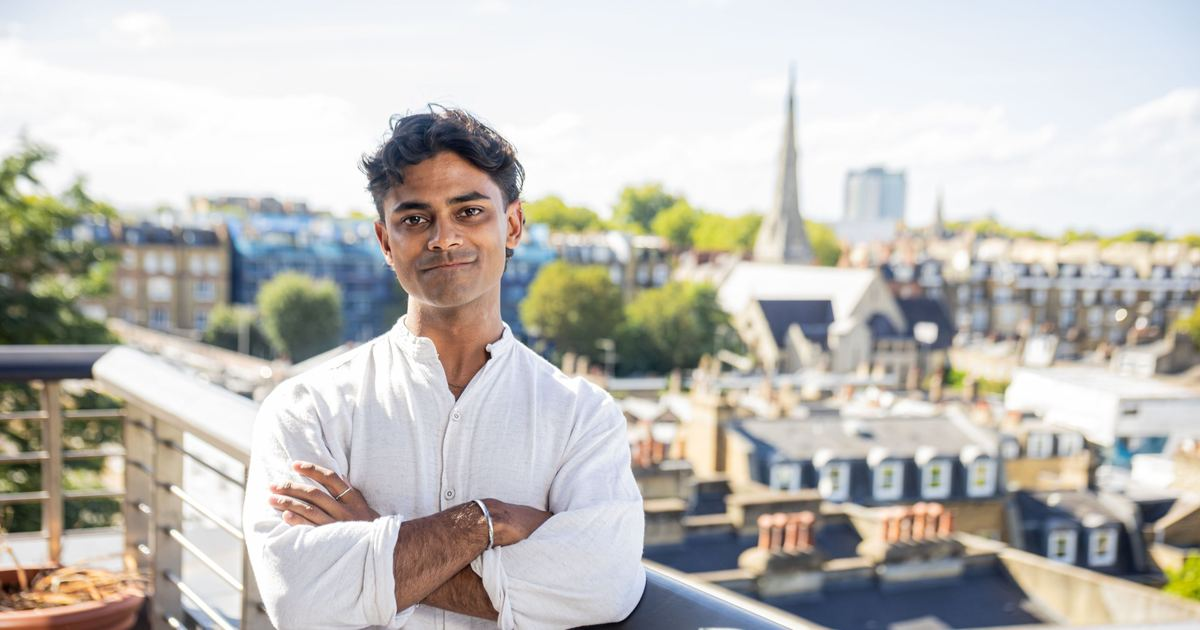
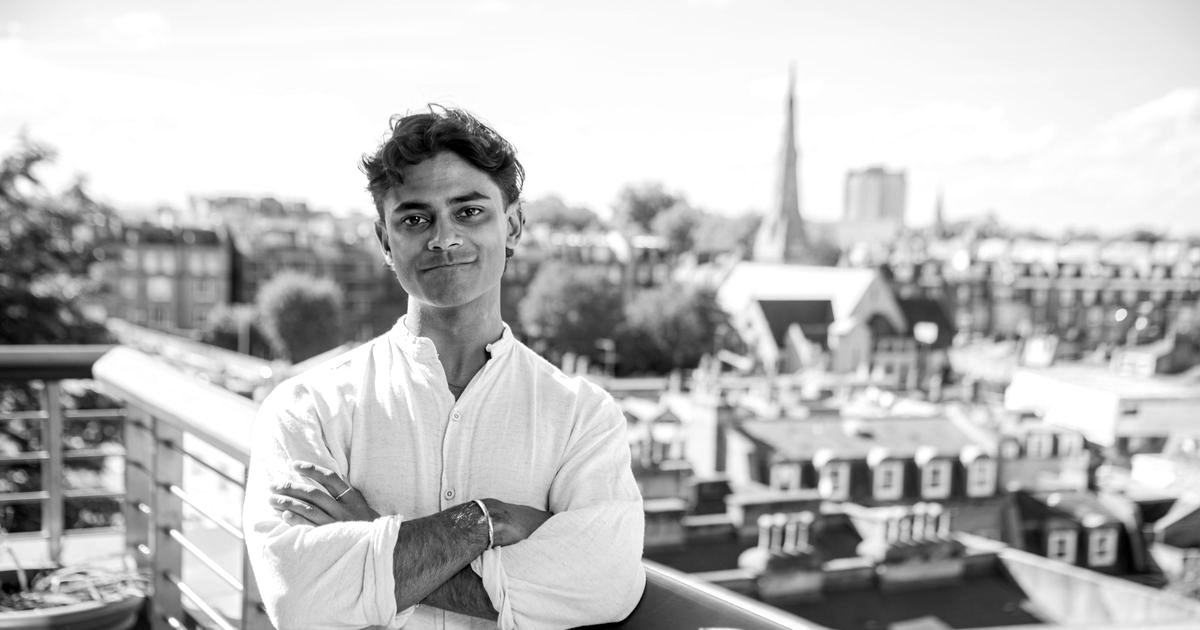
Smaller black-and-white photo, add email contact buttons
Claude-Session: https://claude.ai/code/session_011BaTcGgiFKwZt6SdmjK1kX

diff --git a/index.html b/index.html
@@ -40,6 +40,10 @@ nav .brand:hover{text-decoration:none}
 nav ul{list-style:none;display:flex;gap:26px;margin:0;padding:0;font-size:13px}
 nav ul a{color:var(--body);opacity:.85}
 nav ul a:hover{opacity:1;text-decoration:none;color:var(--ink)}
+nav ul{align-items:center}
+nav ul a,nav .brand{white-space:nowrap}
+nav ul a.pill{opacity:1;color:#fff;background:var(--purple);padding:6px 14px;border-radius:980px;font-weight:500}
+nav ul a.pill:hover{color:#fff;background:#3a2673}
 
 /* hero */
 .hero{min-height:92vh;display:flex;flex-direction:column;justify-content:center;align-items:center;text-align:center;padding:120px 24px 40px}
@@ -56,14 +60,14 @@ nav ul a:hover{opacity:1;text-decoration:none;color:var(--ink)}
 @keyframes in{to{opacity:1;transform:none}}
 
 /* scaling photo */
-.photo-track{height:190vh;position:relative}
+.photo-track{height:150vh;position:relative}
 .photo-stick{position:sticky;top:0;height:100vh;display:flex;align-items:center;justify-content:center;overflow:hidden}
-.photo-frame{position:relative;width:100%;height:100%;
-  transform:scale(var(--s,.62));border-radius:var(--r,28px);overflow:hidden;will-change:transform}
+.photo-frame{position:relative;width:min(1040px,88vw);height:min(66vh,620px);
+  transform:scale(var(--s,.8));border-radius:var(--r,32px);overflow:hidden;will-change:transform;box-shadow:0 30px 80px rgba(8,9,13,.12)}
 .photo-frame img{width:100%;height:100%;object-fit:cover;object-position:35% 40%}
-.photo-cap{position:absolute;left:0;right:0;bottom:0;padding:48px 6vw;color:#fff;
+.photo-cap{position:absolute;left:0;right:0;bottom:0;padding:40px 44px;color:#fff;
   background:linear-gradient(to top,rgba(8,9,13,.6),rgba(8,9,13,0));opacity:var(--c,0)}
-.photo-cap .n{font:600 clamp(34px,5vw,64px)/1 var(--display);letter-spacing:-.02em;margin:0 0 10px}
+.photo-cap .n{font:600 clamp(30px,4vw,48px)/1 var(--display);letter-spacing:-.02em;margin:0 0 10px}
 .photo-cap .r{font-size:clamp(15px,1.6vw,19px);opacity:.9;margin:0}
 
 /* statement */
@@ -123,8 +127,11 @@ section{scroll-margin-top:60px}
 .repo .links{margin-top:auto;display:flex;gap:16px;font-size:14.5px}
 
 /* footer */
-footer{background:var(--tint);padding:70px 0 40px;font-size:13px;color:var(--muted)}
+footer{background:var(--tint);padding:100px 0 40px;font-size:13px;color:var(--muted)}
 footer .big{font:600 clamp(30px,4vw,44px)/1.1 var(--display);color:var(--ink);letter-spacing:-.02em;margin:0 0 22px}
+footer .fsub{font-size:17px;color:var(--body);margin:-8px 0 26px;max-width:520px}
+footer .btn.mail{background:var(--purple);font-size:16px;padding:13px 28px}
+footer .addr{margin:12px 0 44px;font-size:14px;color:var(--muted)}
 footer .fl{display:flex;gap:22px;flex-wrap:wrap;font-size:15px;margin-bottom:48px}
 footer .base{display:flex;justify-content:space-between;flex-wrap:wrap;gap:8px;border-top:1px solid #DDDBE3;padding-top:18px}
 
@@ -135,13 +142,15 @@ footer .base{display:flex;justify-content:space-between;flex-wrap:wrap;gap:8px;b
   .tiles,.cards,.repos{grid-template-columns:1fr}
   .pub{grid-template-columns:1fr}
   .venue{justify-self:start}
-  .photo-track{height:150vh}
+  .photo-track{height:130vh}
+  .photo-frame{height:min(62vh,560px)}
+  .photo-cap{padding:28px 24px}
 }
 @media (prefers-reduced-motion:reduce){
   html{scroll-behavior:auto}
   .load,.reveal{animation:none;opacity:1;transform:none;transition:none}
   .statement .word{opacity:1}
-  .photo-frame{transform:none;border-radius:0}
+  .photo-frame{transform:none;border-radius:20px}
   .photo-cap{opacity:1}
   .cellwrap{transform:none;opacity:1}
 }
@@ -154,9 +163,10 @@ footer .base{display:flex;justify-content:space-between;flex-wrap:wrap;gap:8px;b
     <a class="brand" href="#top">Reed Naidoo</a>
     <ul>
       <li class="hide-s"><a href="#about">About</a></li>
-      <li><a href="#research">Research</a></li>
+      <li class="hide-s"><a href="#research">Research</a></li>
       <li><a href="#publications">Publications</a></li>
-      <li><a href="#code">Code</a></li>
+      <li class="hide-s"><a href="#code">Code</a></li>
+      <li><a class="pill" href="mailto:reed.naidoo@sentinal4d.com?subject=Hello%20Reed">Get in touch</a></li>
     </ul>
   </div>
 </nav>
@@ -166,15 +176,15 @@ footer .base{display:flex;justify-content:space-between;flex-wrap:wrap;gap:8px;b
   <h1 class="load d1">Form follows<br /><span class="grad">function.</span></h1>
   <p class="lede load d2">I'm Reed. I build generative models that learn how cells change shape, and what that shape tells us about how they work.</p>
   <div class="cta load d3">
-    <a class="btn" href="#publications">See publications</a>
-    <a class="btn ghost" href="https://github.com/reednaidoo">GitHub</a>
+    <a class="btn" href="mailto:reed.naidoo@sentinal4d.com?subject=Hello%20Reed">Get in touch</a>
+    <a class="btn ghost" href="#publications">See publications</a>
   </div>
 </header>
 
 <div class="photo-track" id="photoTrack">
   <div class="photo-stick">
     <div class="photo-frame" id="photoFrame">
-      <img src="assets/reed-wide.jpg" alt="Reed Naidoo on a rooftop overlooking London" />
+      <img src="assets/reed-bw.jpg" alt="Reed Naidoo on a rooftop overlooking London" />
       <div class="photo-cap">
         <p class="n">Reed Naidoo</p>
         <p class="r">PhD Researcher, The Institute of Cancer Research · Research Scientist, Sentinal4D</p>
@@ -318,6 +328,9 @@ footer .base{display:flex;justify-content:space-between;flex-wrap:wrap;gap:8px;b
 <footer>
   <div class="w">
     <p class="big">Let's work together.</p>
+    <p class="fsub">Collaborations, talks or questions about the work. I'd love to hear from you.</p>
+    <a class="btn mail" href="mailto:reed.naidoo@sentinal4d.com?subject=Hello%20Reed">Email me</a>
+    <p class="addr">reed.naidoo@sentinal4d.com</p>
     <div class="fl">
       <a href="https://www.linkedin.com/in/reed-naidoo-02329a223/">LinkedIn</a>
       <a href="https://github.com/reednaidoo">GitHub</a>
@@ -357,8 +370,8 @@ footer .base{display:flex;justify-content:space-between;flex-wrap:wrap;gap:8px;b
     var r = track.getBoundingClientRect();
     var p = clamp(-r.top / (r.height - vh));
     var e = 1 - Math.pow(1 - clamp(p / .7), 3);
-    frame.style.setProperty('--s', (.62 + .38 * e).toFixed(4));
-    frame.style.setProperty('--r', (28 * (1 - e)).toFixed(1) + 'px');
+    frame.style.setProperty('--s', (.8 + .2 * e).toFixed(4));
+    frame.style.setProperty('--r', (32 - 12 * e).toFixed(1) + 'px');
     frame.style.setProperty('--c', clamp((p - .6) / .3).toFixed(3));
 
     // statement: light words up as it crosses the screen
